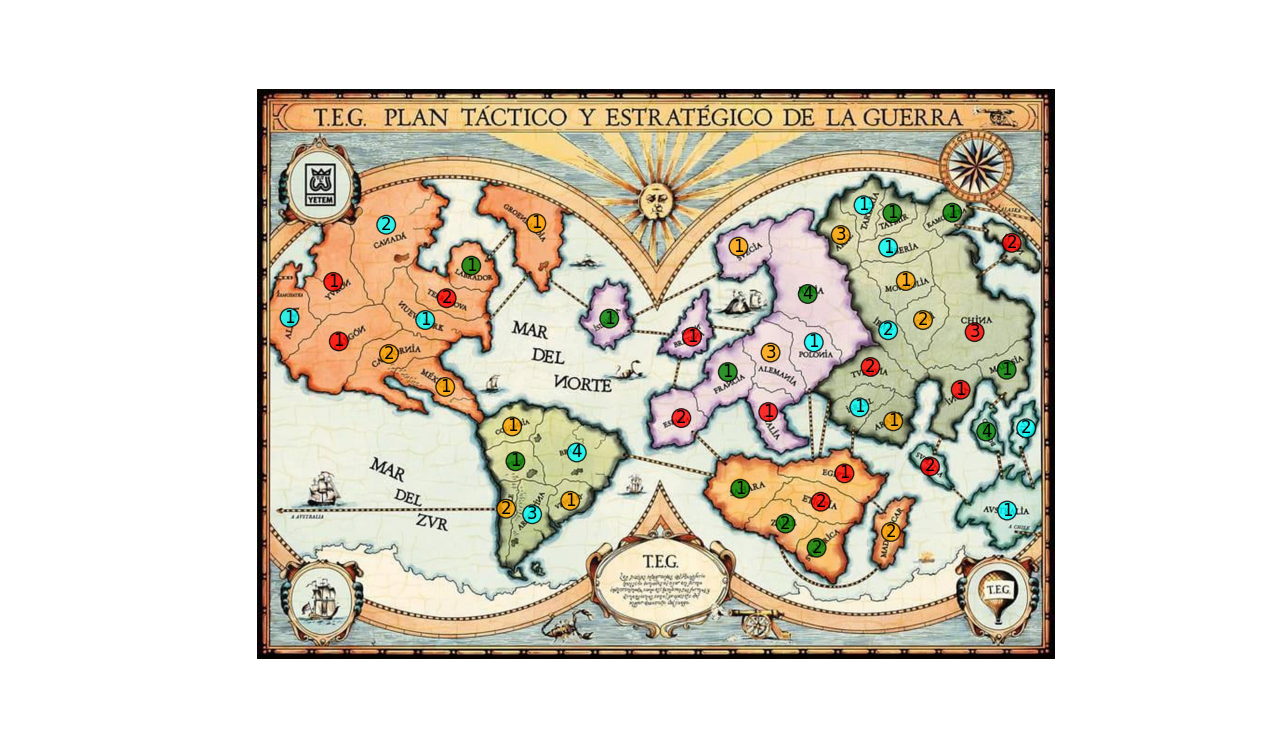
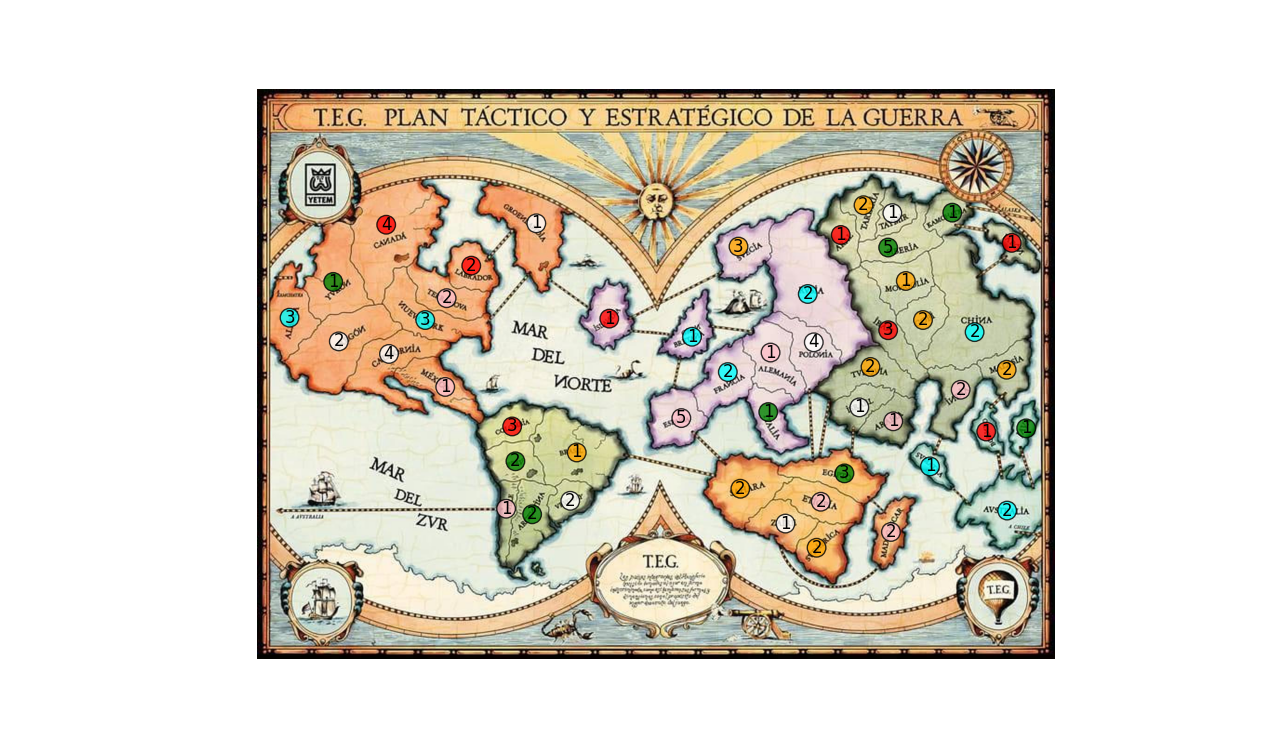
¡Trabajo terminado!

diff --git a/main.py b/main.py
@@ -79,8 +79,7 @@ dibujar(paises, coordenadas)
 
 victoria = False
 
-#for m in range(1000):  # O sino "while not victoria:"
-while not victoria:
+for m in range(1000):  # O sino "while not victoria:"
 
     # Flujo para cada jugador
     for j in jugadores:

diff --git a/README.md b/README.md
@@ -1,2 +1,12 @@
 # final-python
-Simulación de una partida del juego de mesa TEG.
+Simulación de una partida del juego de mesa TEG, jugado por jugadores simulados con decisiones tomadas de forma aleatoria.
+
+Para la inicialización del juego, escribí un par de programas. 'data\chequeo_limites.py' y 'data\limites.py'. Sirvieron para crear un diccionario con los países limítrofes de cada país. El diccionario 'data\limites_preliminar.json' ayudó a este fin. El resultado de este tratamiento es 'data\limites.json', usado en main.py.
+
+Una vez creado este diccionario, los programas mencionados ya no son útiles. Pueden ignorarse. Los dejé en la carpeta por si fueran necesarios en el futuro.
+
+Las imágenes 'data\inicio.png' y 'data\ronda 1000.png' muestran ejemplos de la ejecución de main.py. Muestran el tablero al inicio del juego y tras mil rondas usando seis jugadores.
+
+Si se quiere modificar el número de jugadores, cambiar 'numero_jugadores' en main.py. Es la única variable que es necesaria alterarse manualmente.
+
+El módulo 'modules\muestra_ejercitos.py' se usó para confeccionar 'modules\dibujar.py', pero a parte de eso no forma parte del programa principal.
